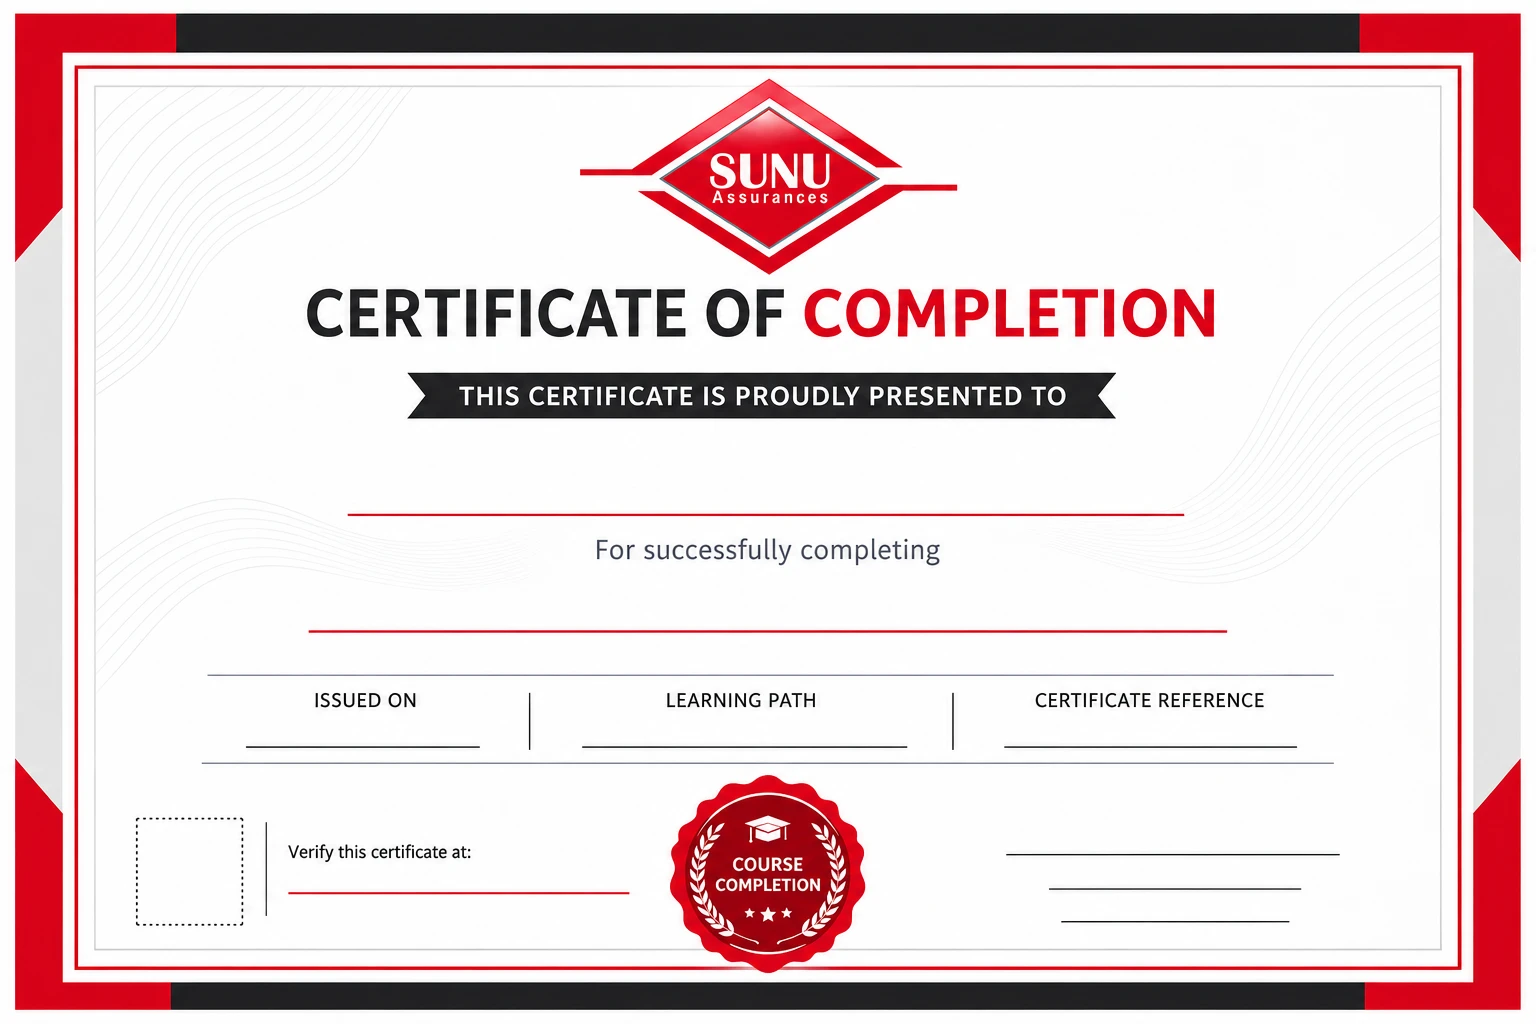
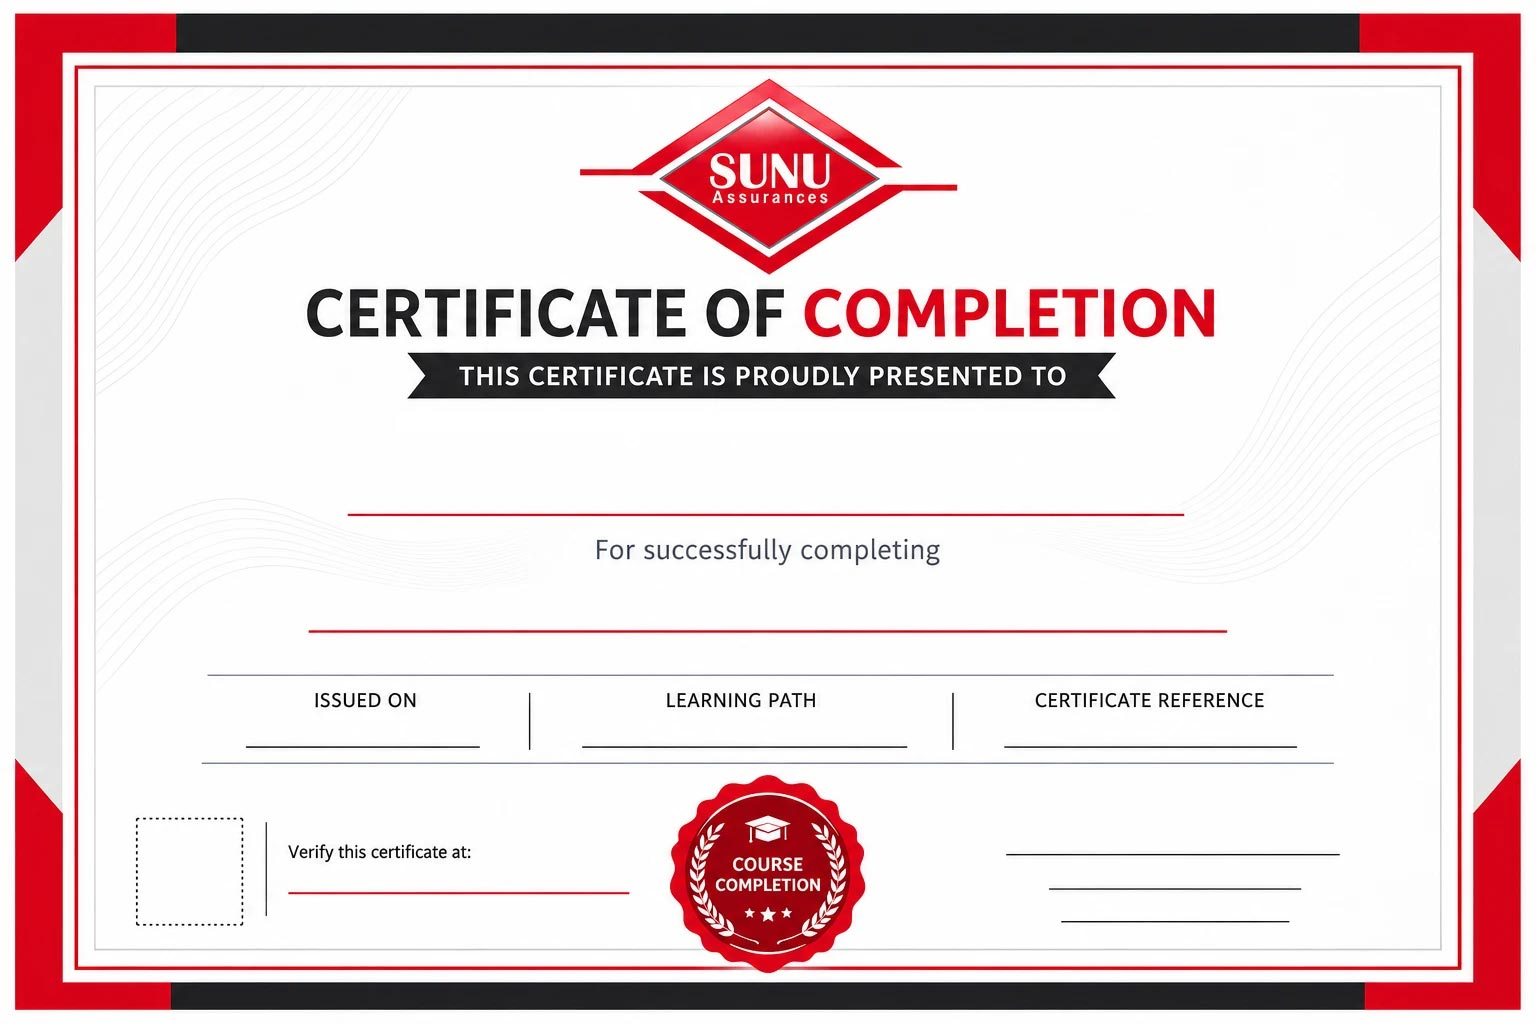
Fix cert: updated template, signatory position, URL word-break
- Replace sunu-cert-template.webp with revised artwork (adjusted
  "THIS CERTIFICATE IS PROUDLY PRESENTED TO" banner area)
- Move .cert-signatory top from 82% to 85% so name sits below both
  horizontal template lines rather than crossing the first one
- Change .cert-url word-break from break-all to overflow-wrap:break-word
  so the reference URL breaks only at word boundaries

Changed region(s): [[0.25, 0.3438, 0.75, 0.4062]]

diff --git a/apps/web/src/app/certificate/[reference]/page.tsx b/apps/web/src/app/certificate/[reference]/page.tsx
@@ -123,15 +123,16 @@ export default async function CertificatePage({ params }: { params: Promise<{ re
           font-family: Inter, system-ui, sans-serif;
           font-size: clamp(6px, 0.8vw, 12px);
           color: #c0392b;
-          word-break: break-all;
+          overflow-wrap: break-word;
+          word-break: normal;
           line-height: 1.3;
         }
 
-        /* Signatory block between the two horizontal template lines */
+        /* Signatory block below the two horizontal template lines */
         .cert-signatory {
           position: absolute;
           right: 4%;
-          top: 82%;
+          top: 85%;
           width: 22%;
           text-align: center;
         }
